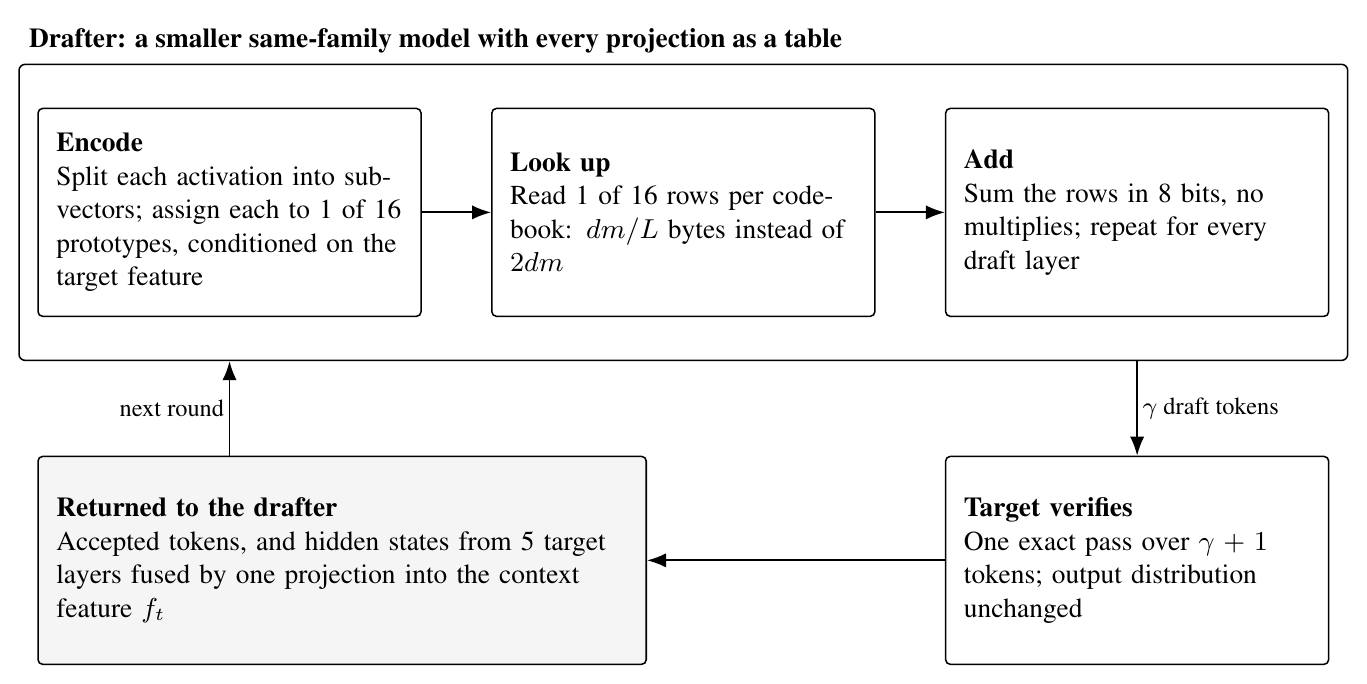
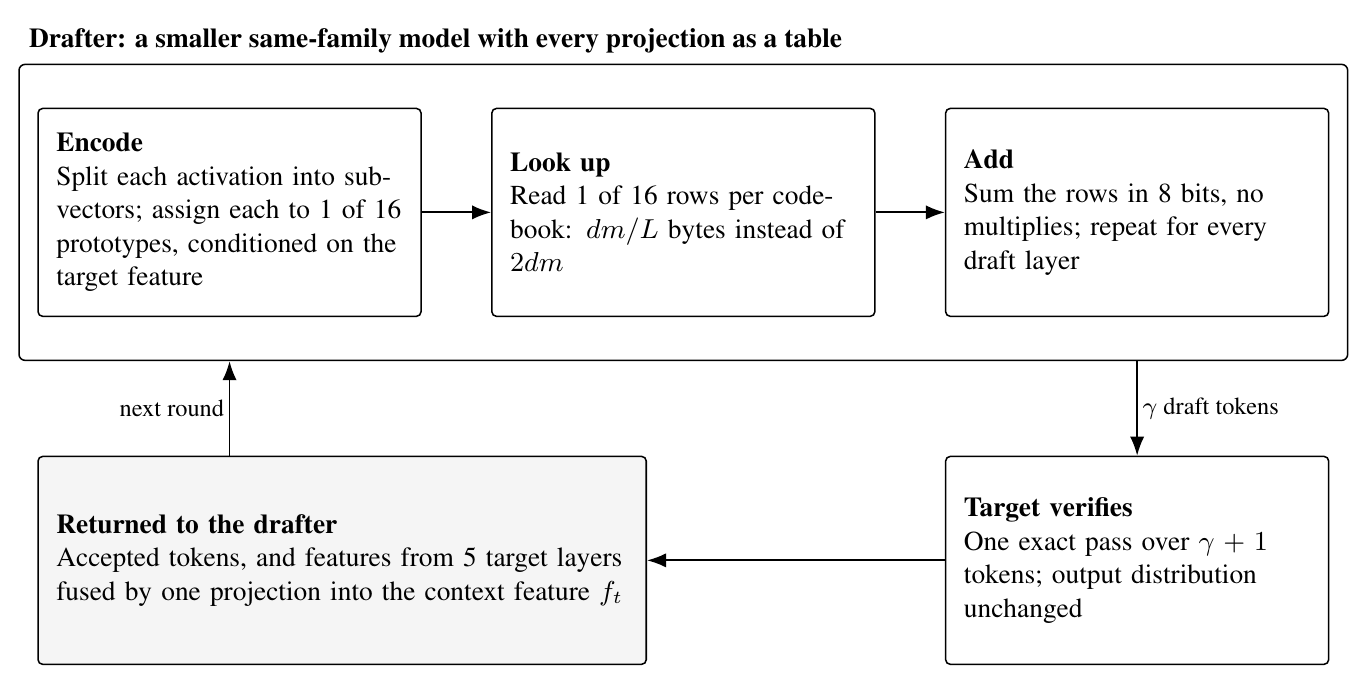
condensed proposal, batch size feasibility, say features not hidden states

Changed region(s): [[0.0307, 0.7368, 0.4609, 0.9211]]

diff --git a/figures/draft_verify_round.tex b/figures/draft_verify_round.tex
@@ -22,7 +22,7 @@
   \end{scope}
   % verify and return
   \node[stage, below=16mm of add.south, anchor=north, text width=40mm] (ver) {\textbf{Target verifies}\\One exact pass over $\gamma+1$ tokens; output distribution unchanged};
-  \node[stage, text width=66mm, fill=black!4] (ret) at (ver -| enc.west) [anchor=west] {\textbf{Returned to the drafter}\\Accepted tokens, and hidden states from 5 target layers fused by one projection into the context feature $f_t$};
+  \node[stage, text width=66mm, fill=black!4] (ret) at (ver -| enc.west) [anchor=west] {\textbf{Returned to the drafter}\\Accepted tokens, and features from 5 target layers fused by one projection into the context feature $f_t$};
   \draw[flow] (drafter.south -| add) -- (ver.north) node[edgelabel, midway, right] {$\gamma$ draft tokens};
   \draw[flow] (ver.west) -- (ret.east);
   \draw[flow] (ret.north -| enc) -- (drafter.south -| enc) node[edgelabel, midway, left] {next round};

diff --git a/PROPOSAL.md b/PROPOSAL.md
@@ -1,12 +1,12 @@
 # Multiplication-Free Drafting for Speculative Decoding
 
-Juliana Li · October 2026 · revised 27 October after discussion with the TF
+CS 2420 Group 2 · Juliana Li, Eric Xu, Bowen Yang, Adam Zhou · October 2026
 
 ## Summary
 
-We propose a drafter for speculative decoding whose linear layers run as table lookups in place of multiplications, and whose table indices are chosen with help from the target model's hidden states. The drafter is a smaller model from the target's family, for example Llama-3.2-1B drafting for Llama-3.1-8B. Each linear layer's input activation is split into short subvectors, each subvector is assigned to one of 16 learned prototypes, and the dot product of every prototype with the matching slice of the weight matrix is precomputed into a lookup table. This is the MADDNESS construction of [Blalock and Guttag (2021)](https://arxiv.org/abs/2106.10860). A draft forward pass reads one table row per codebook and adds 8-bit entries, performs no multiply-adds in its projections, and at batch size 1 reads 1/16 of the bytes the same model reads in 16 bits at the default subvector length of 8. The target verifies drafted tokens exactly as in standard speculative decoding, so output quality is unchanged.
+We propose a drafter for speculative decoding whose linear layers run as table lookups in place of multiplications, and whose table indices are chosen with help from the target model's features. The drafter is a smaller model from the target's family, for example Llama-3.2-1B drafting for Llama-3.1-8B. Each linear layer's input activation is split into short subvectors, each subvector is assigned to one of 16 learned prototypes, and the dot product of every prototype with the matching slice of the weight matrix is precomputed into a lookup table. This is the MADDNESS construction of [Blalock and Guttag (2021)](https://arxiv.org/abs/2106.10860). A draft forward pass reads one table row per codebook and adds 8-bit entries, performs no multiply-adds in its projections, and at batch size 1 reads 1/16 of the bytes the same model reads in 16 bits at the default subvector length of 8. The target verifies drafted tokens exactly as in standard speculative decoding, so output quality is unchanged.
 
-The main claim is about accuracy. Assigning each activation to a prototype is the drafter's one data-dependent step. The naive assignment hashes the activation to a bucket with a locality-sensitive hash and uses that bucket's centroid. We claim that conditioning the assignment on features the target computed during verification gives a higher acceptance rate than naive hashing at the same table budget. The target's hidden states already encode several future tokens, which is what makes [EAGLE-3](https://arxiv.org/abs/2503.01840) and [DFlash](https://arxiv.org/abs/2602.06036) fast, and a drafter's errors only lower its acceptance rate, which is what makes MADDNESS's approximation affordable here.
+The main claim is about accuracy. Assigning each activation to a prototype is the drafter's one data-dependent step. The naive assignment hashes the activation to a bucket with a locality-sensitive hash and uses that bucket's centroid. We claim that conditioning the assignment on features the target computed during verification gives a higher acceptance rate than naive hashing at the same table budget. The target's features already encode several future tokens, which is what makes [EAGLE-3](https://arxiv.org/abs/2503.01840) and [DFlash](https://arxiv.org/abs/2602.06036) fast, and a drafter's errors only lower its acceptance rate, which is what makes MADDNESS's approximation affordable here.
 
 The first milestone is a curve of acceptance rate against number of codebooks for Llama-3.2-1B drafting for Llama-3.1-8B, once with naive hashing and once with target-feature conditioning. Draft latency is measured beside it. The accuracy claim does not depend on the latency result.
 
@@ -20,7 +20,7 @@ $$
 
 Both α and c enter, but two measurement studies find that c decides. [Ha et al. (ICML 2026)](https://www.eecg.utoronto.ca/~ganesa10/assets/pdfs/selfspecdecode-icml2026.pdf) characterize five self-speculative methods on Llama-2 7B to 70B and state their first takeaway as "Draft cost, not acceptance rate, dominates throughput": the methods with the smallest drafters (Kangaroo, DEL) consistently beat the methods with better drafts (SWIFT, Draft & Verify). [Yan et al. (NAACL 2025)](https://arxiv.org/abs/2402.01528) reach the same conclusion for separate draft models: performance "depends heavily on the latency of the draft model", and the drafter's language-modeling quality "does not correlate strongly" with its speculative performance.
 
-Existing drafters lower c in two ways. Self-drafters run fewer of the target's layers, by skipping layers ([Draft & Verify](https://aclanthology.org/2024.acl-long.607); SWIFT) or exiting early ([LayerSkip](https://aclanthology.org/2024.acl-long.681); [Kangaroo](https://arxiv.org/abs/2404.18911); DEL), and quantized self-drafters ([QSpec](https://arxiv.org/abs/2410.11305); [QuantSpec](https://arxiv.org/abs/2502.10424)) run the layers at 4 bits. Trained drafters ([EAGLE](https://arxiv.org/abs/2401.15077); EAGLE-3; DFlash) run a new small network fed with the target's hidden states. DFlash reads hidden states from five target layers and injects them into the keys and values of every draft layer, and reaches 6.1× on Qwen3-8B. The lesson of the trained drafters, stated in DFlash as "the target knows best", is that a drafter's quality comes mostly from the target's features and only a small share from the drafter's own arithmetic. Their arithmetic is still dense matrix products, and they need a new transformer trained on a large corpus.
+Existing drafters lower c in two ways. Self-drafters run fewer of the target's layers, by skipping layers ([Draft & Verify](https://aclanthology.org/2024.acl-long.607); SWIFT) or exiting early ([LayerSkip](https://aclanthology.org/2024.acl-long.681); [Kangaroo](https://arxiv.org/abs/2404.18911); DEL), and quantized self-drafters ([QSpec](https://arxiv.org/abs/2410.11305); [QuantSpec](https://arxiv.org/abs/2502.10424)) run the layers at 4 bits. Trained drafters ([EAGLE](https://arxiv.org/abs/2401.15077); EAGLE-3; DFlash) run a new small network fed with the target's features. DFlash reads features from five target layers and injects them into the keys and values of every draft layer, and reaches 6.1× on Qwen3-8B. The lesson of the trained drafters, stated in DFlash as "the target knows best", is that a drafter's quality comes mostly from the target's features and only a small share from the drafter's own arithmetic. Their arithmetic is still dense matrix products, and they need a new transformer trained on a large corpus.
 
 MADDNESS removes the arithmetic. For a weight matrix known in advance it replaces the product with table lookups and 8-bit additions and performs zero multiply-adds; Blalock and Guttag report up to 100× over exact products on CPU. It was never adopted for exact inference because its error compounds through depth: [McCarter and Dronen (2022)](https://arxiv.org/abs/2207.05808) applied it to whole networks with fine-tuning and found accuracy "substantially diminished compared to exact matrix multiplication". A drafter is the one place where that failure is affordable. The target verifies every drafted token, so approximation error lowers α and leaves output quality unchanged, and the cost model above says α is the cheaper currency.
 
@@ -41,7 +41,7 @@ Four lines of work meet here, and none of them has built a drafter from lookup t
 | [QuantSpec](https://arxiv.org/abs/2502.10424) (ICML 2025) | Target at 4-bit weights with a 4-bit KV cache | Word size, KV bytes | None | Long-context baseline; acceptance above 90% |
 | [MADDNESS](https://arxiv.org/abs/2106.10860), [LUT-NN](https://arxiv.org/abs/2302.03213), [Stella Nera](https://arxiv.org/abs/2311.10207) | Whole network through tables (not a drafter) | Multiplies become lookups | Centroid fine-tuning | The mechanism. Never applied to a decoder LLM or to drafting |
 
-**Speculative decoding.** Leviathan et al. (2023) and Chen et al. (2023) introduced the draft-then-verify loop with a rejection rule that preserves the target's output distribution. [Medusa](https://arxiv.org/abs/2401.10774) and EAGLE (ICML 2024) replaced the separate drafter with heads trained on the target's own hidden states; EAGLE's drafter takes the target's second-to-top-layer feature at the previous position plus the next token's embedding. EAGLE-3 fuses a low, a middle and a high target layer and reaches speedups up to 6.5×. DFlash fuses five target layers, spaced uniformly between the second layer and the third-to-last, through one projection W_c of shape D × 5D followed by RMSNorm, and injects the result into the key and value projections of every draft layer. These papers already ran the ablations on which target layers carry information about future tokens, and we reuse their choices rather than re-deriving them.
+**Speculative decoding.** Leviathan et al. (2023) and Chen et al. (2023) introduced the draft-then-verify loop with a rejection rule that preserves the target's output distribution. [Medusa](https://arxiv.org/abs/2401.10774) and EAGLE (ICML 2024) replaced the separate drafter with heads trained on the target's own features; EAGLE's drafter takes the target's second-to-top-layer feature at the previous position plus the next token's embedding. EAGLE-3 fuses a low, a middle and a high target layer and reaches speedups up to 6.5×. DFlash fuses five target layers, spaced uniformly between the second layer and the third-to-last, through one projection W_c of shape D × 5D followed by RMSNorm, and injects the result into the key and value projections of every draft layer. These papers already ran the ablations on which target layers carry information about future tokens, and we reuse their choices rather than re-deriving them.
 
 **Self-drafting.** Draft & Verify, LayerSkip, Kangaroo, SWIFT and DEL draft with a subset of the target's layers. Ha et al. (ICML 2026) measured all five on Llama-2 7B to 70B and found that the methods with the cheapest drafters win despite lower acceptance, and that early-exit methods also win on verification because the target reuses the draft layers' computation. Yan et al. (NAACL 2025) found the same for separate drafters.
 
@@ -71,7 +71,7 @@ The drafter is a smaller model from the target's family with every linear projec
 
 **Step 1: assigning activations to prototypes.** Three naive encoders are implemented as baselines. The Hamming encoder draws b = 4 random hyperplanes per subspace, hashes each subvector to a 4-bit code, and uses the mean of the calibration rows in that bucket as the centroid; this is the locality-sensitive hash of the lecture framing. The MADDNESS encoder is the four-level decision tree, four scalar comparisons per subvector. The nearest-prototype encoder computes all 16 distances, 16·L multiplies per subvector, and is the accuracy ceiling for a fixed codebook. All three cost under 1% of the exact layer's arithmetic. The difference between them is accuracy, and it is measured as acceptance rate.
 
-**Feature-informed assignment.** After verification the target's hidden states at every accepted position are free. Following DFlash, hidden states from five target layers spaced uniformly through the depth are concatenated and projected by one matrix W_c of shape D_draft × 5 D_target with RMSNorm, giving a context feature f_t at the last accepted position. For Llama-3.1-8B into Llama-3.2-1B this is a 2048 × 20480 matrix, about 42M multiply-adds per accepted position, computed once per round for all accepted positions in parallel and reused across the γ draft steps. Two mechanisms use f_t, and both keep the bytes read per token unchanged.
+**Feature-informed assignment.** After verification the target's features at every accepted position are free. Following DFlash, features from five target layers spaced uniformly through the depth are concatenated and projected by one matrix W_c of shape D_draft × 5 D_target with RMSNorm, giving a context feature f_t at the last accepted position. For Llama-3.1-8B into Llama-3.2-1B this is a 2048 × 20480 matrix, about 42M multiply-adds per accepted position, computed once per round for all accepted positions in parallel and reused across the γ draft steps. Two mechanisms use f_t, and both keep the bytes read per token unchanged.
 
 - *Context-conditioned assignment.* A small per-layer adapter a_l maps f_t to a 32-dimensional context vector. The scorer for subspace c scores the 16 prototypes from the concatenation of the activation subvector and that context vector and takes the argmax. The scorer costs 16·(L + 32) multiply-adds per subvector, about 1% of the exact layer, and can later be distilled into a tree or a hash to restore the multiply-free property. Training is cross-entropy against the prototype whose table entry best reconstructs the exact layer output on the calibration set, with a second variant trained end to end on the drafter's next-token log-likelihood under the target.
 - *Context-selected codebooks.* Each subspace holds M = 4 codebooks of 16 prototypes, fit by clustering the calibration rows after grouping them by a 2-bit hash of f_t. The context picks the codebook and the subvector picks the prototype within it. Storage grows by M; bytes read per token do not change. This is the "better centroids" lever in our TF's terms, and the first mechanism is the "better assignment" lever.
@@ -86,7 +86,7 @@ For draft positions beyond the first, f_t is either held at the last verified po
 
 Three points, each stated against the closest prior work.
 
-- **Feature-informed prototype assignment.** EAGLE, EAGLE-3 and DFlash feed the target's hidden states into a trained transformer drafter. We feed them into the assignment step of a table drafter, so the signal that those methods spend a trained network on is used to pick one of 16 precomputed rows. As far as we can find, this is the first use of a verifier's exact features to steer a product-quantization encoder, and the first comparison of feature-informed assignment against naive locality-sensitive hashing on acceptance rate.
+- **Feature-informed prototype assignment.** EAGLE, EAGLE-3 and DFlash feed the target's features into a trained transformer drafter. We feed them into the assignment step of a table drafter, so the signal that those methods spend a trained network on is used to pick one of 16 precomputed rows. As far as we can find, this is the first use of a verifier's exact features to steer a product-quantization encoder, and the first comparison of feature-informed assignment against naive locality-sensitive hashing on acceptance rate.
 - **The first activation-indexed lookup-table drafter.** Every existing drafter cuts cost by depth (Draft & Verify, LayerSkip, Kangaroo, SWIFT, DEL), by word size (QSpec, QuantSpec), or by training a small dense network (EAGLE-3, DFlash). This drafter changes the arithmetic itself: its projections perform no multiply-adds and its error lives in the activations rather than the weights. The LUT kernels now used for LLMs (LUT-GEMM, T-MAC, FLUTE) are exact kernels for quantized weights and are a different object.
 - **A setting where MADDNESS's known failure is affordable.** Whole-network lookup inference was tried and found to lose too much accuracy (McCarter and Dronen, 2022; Stella Nera recovers it only with fine-tuning on CIFAR-scale models). Speculative verification turns that accuracy loss into a lower acceptance rate with no change to outputs, and the measurements of Ha et al. and Yan et al. say acceptance rate is the cheaper currency. We have found no one who has made this argument or tested it.
 
@@ -111,6 +111,17 @@ For the primary pair the numbers are as follows. Llama-3.2-1B has about 0.97B pa
 | Llama-3.2-1B, tables at L = 8, 8-bit LM head | 0.4 GB | 0.02 | 0.1 to 0.2 |
 
 The last column is the honest one. A 16-layer forward pass at batch 1 is a few hundred kernel launches, and with CUDA graphs we estimate about 1 ms on an H100, against about 10 ms for the 8B target, so c has a floor near 0.1 that tables cannot lower. On a GPU the tables buy a modest latency gain over a 4-bit drafter and a large gain in bytes and energy; on bandwidth-bound hardware such as phones, where the lecture's MobileLLM and Apple Neural Engine material places the constraint, the byte reduction is the latency gain. This is why the main claim is the acceptance-rate gain at fixed budget, which holds on any hardware, and the speed result is measured and reported rather than promised.
+
+**Batch size.** A dense weight matrix is read once per batch, but a table is read one row per codebook per token, and different tokens select different rows, so by a batch of 16 nearly the whole table has been read. Total bytes per projection per batch, as a fraction of the 16-bit weight matrix:
+
+| Batch size | 16-bit | 4-bit | Tables, L = 8 | Tables, L = 16 | Tables, L = 32 |
+| --- | --- | --- | --- | --- | --- |
+| 1 | 1 | 0.25 | 0.06 | 0.03 | 0.02 |
+| 4 | 1 | 0.25 | 0.25 | 0.13 | 0.06 |
+| 8 | 1 | 0.25 | 0.5 | 0.25 | 0.13 |
+| 16 or more | 1 | 0.25 | 1 | 0.5 | 0.25 |
+
+The byte advantage over a 4-bit drafter therefore holds up to batch 4 at L = 8 and batch 16 at L = 32, which covers interactive serving and on-device decoding. At larger batches the table drafter is bound by its 8-bit additions, which are L times fewer operations than the dense product but do not run on tensor cores, so a quantized tensor-core drafter is expected to be faster there; this is measured, not claimed. Speculative decoding as a whole also weakens at large batch, because a compute-bound target pays close to γ forward passes to verify γ tokens, which raises c for every drafter. The acceptance-rate claim does not depend on batch size.
 
 The speedup formula from the Motivation gives the targets. With γ = 5 drafted tokens per round:
 
@@ -141,7 +152,7 @@ The first group extends the method; the second uses the artifact to answer quest
 - **Table fine-tuning by distillation.** LUT-NN and Stella Nera make the lookups differentiable. Here the tables, prototypes and scorers are the only trained parameters, so fine-tuning them to match the target's next-token distribution on a few million tokens is cheap and attacks α directly.
 - **Learned subspaces and rotations.** MADDNESS groups adjacent input dimensions. Choosing the grouping, or applying an orthogonal rotation of the input as [QuaRot](https://arxiv.org/abs/2404.00456) does to remove outliers, folds into the weight before the table is built and costs nothing at run time.
 - **Tree drafting.** With c near 0.1 the drafter can afford to propose a tree of candidates as EAGLE-2 does instead of a chain. Tree width raises the number of table rows read per round, so the byte advantage fades around 16 candidates.
-- **Batched serving.** At batch sizes of 8 to 64 the drafter reads most of its tables and becomes bound by 8-bit additions rather than bytes. Whether it still beats a 4-bit drafter there decides whether the method is a latency tool or also a throughput tool.
+- **Batched serving.** Past the batch sizes in the Feasibility table the drafter is bound by 8-bit additions rather than bytes. Whether it still beats a 4-bit drafter there decides whether the method is a latency tool or also a throughput tool.
 - **Hardware.** The tables and codes are what Stella Nera and T-MAC execute. A CPU-side or neural-engine drafter on a phone, paired with a GPU or server target, is where the multiply-free property matters most.
 
 **Questions the artifact can answer**
@@ -152,14 +163,14 @@ The first group extends the method; the second uses the artifact to answer quest
 
 ## Starter experiments
 
-The first three experiments take about three weeks on one 80 GB GPU and decide whether the project continues; the rest build the paper. Calibration uses 1M to 2M tokens of FineWeb or WikiText; evaluation uses CNN/DailyMail, GSM8K and HumanEval prompts, the three datasets of Ha et al. Every result table reports c, α and tokens per second together, as Ha et al. recommend.
+The first three experiments run on one 80 GB GPU and decide whether the project continues; the rest build the paper. Calibration uses 1M to 2M tokens of FineWeb or WikiText; evaluation uses CNN/DailyMail, GSM8K and HumanEval prompts, the three datasets of Ha et al. Every result table reports c, α and tokens per second together, as Ha et al. recommend.
 
-1. **Single-layer reconstruction (week 1).** For one middle-layer MLP down-projection and one attention output projection of Llama-3.2-1B, fit MADDNESS at L of 8, 16 and 32, with and without SmoothQuant-style per-channel scaling, and refit the tables by ridge regression. Measure relative output error and the KL divergence of the drafter's next-token distribution when only that layer is replaced. Compare with 8-bit and 4-bit weight quantization of the same layer. Pure PyTorch gather-and-sum, no kernels. Gate: at L = 8 the KL cost is within 2× that of 4-bit weights; otherwise outlier handling comes first.
-2. **Acceptance rate under naive assignment (weeks 2 to 3).** Replace every projection at uniform L and measure α with γ = 5 under greedy and sampled verification against Llama-3.1-8B, for the Hamming, tree and nearest-prototype encoders. Also measure the 16-bit and 4-bit Llama-3.2-1B drafters, which set the ceiling. Gate: the tree encoder at L = 8 lands within 0.1 of the 16-bit ceiling. Below that, table fine-tuning (experiment 7) moves ahead of everything else.
-3. **Feature-informed assignment (weeks 3 to 5).** Train the fusion projection, per-layer adapters and per-subspace scorers on the calibration set against teacher codes, then the context-selected codebook variant. Measure code accuracy and α at L of 8, 16 and 32 against the naive encoders at the same L, with f_t held at the last verified position and with it recomputed from the drafter's own feature. This is the main result: the α gain at equal L, or the L at which the conditioned encoder matches the naive encoder's α. Gate: a gain of 0.05 in α at L = 8, or matching α at L = 16.
-4. **Fused kernel microbenchmark (weeks 2 to 4, in parallel).** Write one Triton kernel per projection that encodes, gathers the selected rows and adds them in 8 bits, at batch size 1 on shapes 2048 × 2048 and 2048 × 8192. Time it against a BF16 matrix-vector product and a Marlin 4-bit kernel; report bytes read and achieved bandwidth. Gate: per-projection time at or below the 4-bit kernel at L = 8.
-5. **End-to-end speedup (week 5).** Run drafter and target in one loop with CUDA graphs. Report c, α and tokens per second against vanilla decoding, the 16-bit and 4-bit Llama-3.2-1B drafters, and Draft & Verify and LayerSkip from their released code. EAGLE-3 and DFlash numbers on Llama-3.1-8B are quoted from their papers as the trained-drafter bar.
-6. **Which target features (week 6).** Repeat experiment 3 with EAGLE's second-to-top layer, EAGLE-3's three layers, and DFlash's five, at matched adapter size.
+1. **Single-layer reconstruction.** For one middle-layer MLP down-projection and one attention output projection of Llama-3.2-1B, fit MADDNESS at L of 8, 16 and 32, with and without SmoothQuant-style per-channel scaling, and refit the tables by ridge regression. Measure relative output error and the KL divergence of the drafter's next-token distribution when only that layer is replaced. Compare with 8-bit and 4-bit weight quantization of the same layer. Pure PyTorch gather-and-sum, no kernels. Gate: at L = 8 the KL cost is within 2× that of 4-bit weights; otherwise outlier handling comes first.
+2. **Acceptance rate under naive assignment.** Replace every projection at uniform L and measure α with γ = 5 under greedy and sampled verification against Llama-3.1-8B, for the Hamming, tree and nearest-prototype encoders. Also measure the 16-bit and 4-bit Llama-3.2-1B drafters, which set the ceiling. Gate: the tree encoder at L = 8 lands within 0.1 of the 16-bit ceiling. Below that, table fine-tuning (experiment 7) moves ahead of everything else.
+3. **Feature-informed assignment.** Train the fusion projection, per-layer adapters and per-subspace scorers on the calibration set against teacher codes, then the context-selected codebook variant. Measure code accuracy and α at L of 8, 16 and 32 against the naive encoders at the same L, with f_t held at the last verified position and with it recomputed from the drafter's own feature. This is the main result: the α gain at equal L, or the L at which the conditioned encoder matches the naive encoder's α. Gate: a gain of 0.05 in α at L = 8, or matching α at L = 16.
+4. **Fused kernel microbenchmark (in parallel with 2 and 3).** Write one Triton kernel per projection that encodes, gathers the selected rows and adds them in 8 bits, at batch size 1 on shapes 2048 × 2048 and 2048 × 8192. Time it against a BF16 matrix-vector product and a Marlin 4-bit kernel; report bytes read and achieved bandwidth. Gate: per-projection time at or below the 4-bit kernel at L = 8.
+5. **End-to-end speedup.** Run drafter and target in one loop with CUDA graphs. Report c, α and tokens per second against vanilla decoding, the 16-bit and 4-bit Llama-3.2-1B drafters, and Draft & Verify and LayerSkip from their released code. EAGLE-3 and DFlash numbers on Llama-3.1-8B are quoted from their papers as the trained-drafter bar.
+6. **Which target features.** Repeat experiment 3 with EAGLE's second-to-top layer, EAGLE-3's three layers, and DFlash's five, at matched adapter size.
 7. **Table fine-tuning by distillation (if needed).** Fine-tune tables, prototypes and scorers through a straight-through estimator on 5M tokens against the target's next-token distribution and report the gain in α.
 
 ## Open questions

diff --git a/PROPOSAL_SHORT.md b/PROPOSAL_SHORT.md
@@ -1,0 +1,93 @@
+# Multiplication-Free Drafting for Speculative Decoding
+
+CS 2420 Group 2 · Juliana Li, Eric Xu, Bowen Yang, Adam Zhou · October 2026 · condensed version of [PROPOSAL.md](PROPOSAL.md)
+
+## Summary
+
+Speculative decoding speeds up a large language model by having a cheap drafter guess several tokens that the large model then checks in one pass. We propose a drafter whose linear layers do no multiplication at all: each layer is replaced by a precomputed lookup table, following the MADDNESS method of [Blalock and Guttag (2021)](https://arxiv.org/abs/2106.10860). The drafter is a smaller model from the same family as the target, for example Llama-3.2-1B drafting for Llama-3.1-8B, and at batch size 1 it reads 1/16 of the bytes of the same model in 16 bits. The one data-dependent step in a lookup drafter is choosing which table row to read. Our main claim is that choosing that row with help from the target model's own features, which are free after every verification, raises the fraction of accepted draft tokens compared with a plain hash at the same table size. The target still verifies every token, so output quality is unchanged.
+
+## Motivation
+
+1. **Draft cost matters more than draft quality.** With acceptance rate α, γ drafted tokens per round and drafter cost c per token (as a fraction of one target forward pass), the speedup is (1 − α^(γ+1)) / ((1 − α)(γc + 1)). Two measurement studies find that c decides: [Ha et al. (ICML 2026)](https://www.eecg.utoronto.ca/~ganesa10/assets/pdfs/selfspecdecode-icml2026.pdf) state "Draft cost, not acceptance rate, dominates throughput", and [Yan et al. (NAACL 2025)](https://arxiv.org/abs/2402.01528) find that a drafter's language-modeling quality "does not correlate strongly" with its speedup.
+2. **Current drafters still multiply.** Self-drafters skip layers ([Draft & Verify](https://aclanthology.org/2024.acl-long.607), [LayerSkip](https://aclanthology.org/2024.acl-long.681), [Kangaroo](https://arxiv.org/abs/2404.18911)), quantized drafters run at 4 bits ([QSpec](https://arxiv.org/abs/2410.11305), [QuantSpec](https://arxiv.org/abs/2502.10424)), and trained drafters ([EAGLE-3](https://arxiv.org/abs/2503.01840), [DFlash](https://arxiv.org/abs/2602.06036)) run a new small network. All of them still run dense matrix products.
+3. **Lookup tables remove the multiplication, and the drafter is the one place where their error is affordable.** MADDNESS replaces a matrix product with table lookups and 8-bit additions, up to 100× faster than exact products on CPU, but its error compounds through depth, and [McCarter and Dronen (2022)](https://arxiv.org/abs/2207.05808) found whole-network accuracy "substantially diminished". In a drafter, approximation error only lowers α, and by point 1 that is the cheap currency.
+4. **The target's features are the best guide to the next token.** EAGLE-3 and DFlash reach 6× by feeding the target's features into the drafter; DFlash summarizes this as "the target knows best". We use the same signal for the one decision a lookup drafter makes per layer: which table row to read.
+
+## Related work
+
+- **Speculative decoding.** [Leviathan et al. (2023)](https://arxiv.org/abs/2211.17192) and [Chen et al. (2023)](https://arxiv.org/abs/2302.01318) introduced the draft-then-verify loop with a rejection rule that preserves the target's output distribution.
+- **Feature-fed drafters.** EAGLE feeds the target's second-to-top feature into a trained draft layer; EAGLE-3 fuses a low, middle and high target layer; DFlash fuses five uniformly spaced target layers through one projection and injects the result into every draft layer. These papers already found which target layers carry information about future tokens, and we reuse their choices.
+- **Lookup-based matrix products.** MADDNESS splits each input row into short subvectors, assigns each to one of 16 learned prototypes with a four-level decision tree, and sums precomputed 8-bit table entries. [LUT-NN](https://arxiv.org/abs/2302.03213) and [Stella Nera](https://arxiv.org/abs/2311.10207) made the prototypes trainable and built hardware for it. The LUT kernels now used for LLMs ([LUT-GEMM](https://arxiv.org/abs/2206.09557), [T-MAC](https://arxiv.org/abs/2407.00088), [FLUTE](https://aclanthology.org/2024.findings-emnlp.724)) are a different object: they index tables by weight bit patterns and are exact for a quantized weight. We found no application of activation-indexed tables to a decoder language model of 1B parameters or more, and none to drafting.
+
+## Proposed method
+
+![One draft-verify round. The lookup drafter encodes, looks up and adds through every layer; the target verifies in one pass; accepted positions return tokens and a fused target feature that guides the next round's row choice.](figures/draft_verify_round.png)
+
+1. **Model pair.** Llama-3.2-1B drafts for Llama-3.1-8B. They share the tokenizer, which speculative decoding requires, and the architecture family, which keeps the feature adapter small. Secondary pairs: Llama-3.2-3B for 8B, Qwen3-0.6B for Qwen3-8B.
+2. **Build the tables (offline).** For each linear layer with weight W of shape d × m, split the input dimension into C = d/L subvectors of length L (default L = 8). From about 100K activation rows of the drafter on generic text, fit 16 prototypes per subspace. Table entry T_c[k, j] stores the dot product of prototype k in subspace c with the matching slice of column j of W, scaled to 8 bits. After the prototypes are fixed, refit the entries by ridge regression against the layer's exact outputs.
+3. **Draft forward pass.** Per token and layer, assign each of the C subvectors to a prototype, then for each of the m outputs add C 8-bit table entries. All attention and MLP projections go through tables. Attention scores, softmax, normalization, activation functions and residual additions stay exact in 16 bits. The drafter proposes γ tokens, the target checks them in one pass, and the rejection rule of Leviathan et al. keeps the output distribution exactly the target's.
+4. **Naive row choice (the baselines).** Three encoders that look only at the drafter's own activation: a random-hyperplane hash to 4 bits (the locality-sensitive hashing of the lecture framing), the MADDNESS decision tree (four scalar comparisons), and exact nearest-prototype search (16·L multiplies, the accuracy ceiling for a fixed codebook). All cost under 1% of the exact layer. They differ in accuracy, measured as acceptance rate.
+5. **Target-guided row choice (the contribution).** After verification, features from five target layers, spaced uniformly through the depth as in DFlash, are concatenated and projected by one matrix W_c (2048 × 20480 for this pair, about 42M multiply-adds) into a context feature f_t at the last accepted position. This runs once per round, not per draft token. Two ways to use f_t, neither of which changes the bytes read per token:
+    - *Guided assignment.* A small per-layer adapter maps f_t to a 32-dimensional context vector. A scorer picks the prototype for each subvector from the subvector plus that context vector. Cost is about 1% of the exact layer, and the scorer can later be distilled into a tree or hash.
+    - *Guided codebooks.* Each subspace holds 4 codebooks of 16 prototypes; a 2-bit hash of f_t picks the codebook and the subvector picks the prototype. Storage grows 4×, bytes read per token do not.
+6. **Per-layer table budget.** The subvector length L can differ by layer and projection under a total byte budget. This is a tuning knob, not a claimed contribution.
+7. **What is not changed.** No target weight is modified, no new transformer is trained, and the output distribution is the target's. The trained parts are the prototypes, tables, fusion projection and small adapters, a few tens of megabytes trained on a calibration set.
+
+## Novelty
+
+- **Using the target model's own features to pick which table row the drafter reads.** The target computes features while checking the previous draft, and those states already encode several upcoming tokens. Existing methods spend a trained network on that signal; we use it to make a cheap choice among 16 precomputed rows. As far as we can find, nobody has used a verifier's features to steer a product-quantization encoder, or compared that against plain hashing on acceptance rate.
+- **Cutting draft cost by replacing the drafter's multiplications with table lookups.** Every existing drafter saves cost by running fewer layers, fewer bits, or a smaller dense network. Ours changes the arithmetic itself: its projections do no multiply-adds and read 1/16 of the bytes. This is the first lookup-table drafter.
+- **Making an approximation that failed for exact inference affordable.** Whole-network lookup inference loses too much accuracy. Speculative verification turns that accuracy loss into a lower acceptance rate with no change to outputs, and the measurements of Ha et al. and Yan et al. say that is the cheaper price to pay. No one has made or tested this argument.
+
+A consequence rather than a claim: tables and codes are what lookup accelerators (Stella Nera) and CPU lookup kernels (T-MAC) already execute, and Gemma 4 ships a 76M to 500M parameter drafter for on-device use, so a working lookup drafter has a path onto phones that bit-quantized drafters do not.
+
+## Feasibility
+
+Decoding at batch size 1 is bound by memory bandwidth, so cost tracks bytes read, down to a floor set by kernel launch latency. Per token, a 16-bit projection reads 2dm bytes; its table reads one row per codebook, dm/L bytes, which is 1/16 at L = 8. For the primary pair:
+
+| Drafter | Bytes read per drafted token | c by bytes | c expected on an H100 |
+| --- | --- | --- | --- |
+| Llama-3.2-1B, 16-bit | 2.5 GB | 0.16 | 0.15 to 0.3 |
+| Llama-3.2-1B, 4-bit weights | 0.6 GB | 0.04 | 0.1 to 0.2 |
+| Llama-3.2-1B, tables at L = 8 | 0.4 GB | 0.02 | 0.1 to 0.2 |
+
+The last column is the honest one: a 16-layer pass at batch 1 is a few hundred kernel launches, about 1 ms on an H100 against about 10 ms for the 8B target, so c has a floor near 0.1 that tables cannot lower. On a GPU the tables buy a modest latency gain over a 4-bit drafter and a large gain in bytes and energy; on bandwidth-bound hardware such as phones the byte reduction is the latency gain. This is why the main claim is the acceptance-rate gain at a fixed table budget, which holds on any hardware. With γ = 5, c = 0.1 gives 1.6× at α = 0.6 and 2.0× at α = 0.7; we expect the 16-bit 1B drafter to reach α of 0.6 to 0.7, which is the ceiling for the lookup drafter.
+
+**Batch size.** A dense weight matrix is read once per batch, but a table is read one row per codebook per token, so by a batch of 16 nearly the whole table has been read. Total bytes per projection per batch, as a fraction of the 16-bit weight matrix:
+
+| Batch size | 16-bit | 4-bit | Tables, L = 8 | Tables, L = 16 | Tables, L = 32 |
+| --- | --- | --- | --- | --- | --- |
+| 1 | 1 | 0.25 | 0.06 | 0.03 | 0.02 |
+| 4 | 1 | 0.25 | 0.25 | 0.13 | 0.06 |
+| 16 or more | 1 | 0.25 | 1 | 0.5 | 0.25 |
+
+The byte advantage over a 4-bit drafter holds up to batch 4 at L = 8 and batch 16 at L = 32, which covers interactive serving and on-device decoding. At larger batches the table drafter is bound by its 8-bit additions, which do not run on tensor cores, so a quantized tensor-core drafter is expected to be faster there; this is measured, not claimed. The acceptance-rate claim does not depend on batch size.
+
+Risks: the encoder must be fused into each projection's gather-and-add kernel or it becomes hundreds of dependent launches; LLM activation outliers can waste the 16 prototypes, so per-channel scaling as in [SmoothQuant](https://arxiv.org/abs/2211.10438) is folded into the weights before the tables are built; and the fusion projection W_c must stay out of the per-draft-token path.
+
+## Starter experiments
+
+The first three run on one 80 GB GPU and decide whether the project continues. Every result reports c, α and tokens per second together, as Ha et al. recommend.
+
+1. **Single-layer reconstruction.** Replace one MLP and one attention projection of Llama-3.2-1B with tables at L of 8, 16 and 32, with and without outlier scaling. Measure output error and the KL divergence of the drafter's next-token distribution against 8-bit and 4-bit weight quantization of the same layer. Gate: at L = 8 the KL cost is within 2× that of 4-bit weights.
+2. **Acceptance under naive row choice.** Replace every projection and measure α with γ = 5 against Llama-3.1-8B for the hash, tree and nearest-prototype encoders, plus the 16-bit and 4-bit 1B drafters as the ceiling. Gate: the tree encoder at L = 8 lands within 0.1 of the ceiling.
+3. **Target-guided row choice.** Train the fusion projection, adapters and scorers, then the guided-codebook variant. Measure α at L of 8, 16 and 32 against the naive encoders at the same L. This is the main result. Gate: a gain of 0.05 in α at L = 8, or matching α at L = 16.
+4. **Fused kernel (in parallel with 2 and 3).** One Triton kernel per projection that encodes, gathers and adds in 8 bits; time it against a BF16 matrix-vector product and a 4-bit kernel. Gate: at or below the 4-bit kernel at L = 8.
+5. **End-to-end speedup.** Drafter and target in one loop with CUDA graphs, against vanilla decoding, the 16-bit and 4-bit 1B drafters, Draft & Verify and LayerSkip.
+6. **Which target features.** Repeat experiment 3 with EAGLE's one layer, EAGLE-3's three and DFlash's five.
+7. **Table fine-tuning (if needed).** Fine-tune tables, prototypes and scorers through a straight-through estimator against the target's next-token distribution.
+
+## Open questions
+
+- **Adapter design.** Which target layers and positions feed it, whether the context vector enters the scorer or picks the codebook, and whether to train against the exact encoder's codes or against the target's next-token distribution.
+- **Staleness.** f_t is computed at the last verified position; for later draft positions it is either held fixed or recomputed from the drafter's own noisy top-layer feature. Both are tested.
+- **Why same family.** Whether the drafter needs the target's family only for the tokenizer and dimensions, or because aligned representations keep the adapter small.
+- **Fair hash baseline.** A single 4-bit random hash may assign poorly in an 8-dimensional subspace; if so the baseline gets enough hash tables to match the tree encoder's accuracy.
+- **Fusing the encoder on a GPU.** A decision tree inside a kernel causes warp divergence; the branch-free scorer may be the faster encoder on a GPU despite its multiplies.
+- **Verification setting.** Greedy and sampled verification, and 16-bit versus 4-bit targets, are all measured.
+
+Logistics for the TF: available GPUs and hours; whether a PyTorch simulation plus a kernel microbenchmark is an acceptable deliverable if the end-to-end loop slips; and whether he knows a usable GPU implementation of MADDNESS or prior work on activation-side product quantization for transformers.
+
+## References
+
+See the reference list in [PROPOSAL.md](PROPOSAL.md); every entry there was checked against its arXiv or venue page on 2026-10-26 or 2026-10-27. Works cited here: Blalock and Guttag 2021 (MADDNESS); Chen et al. 2023; Chen, Liang and Liu 2026 (DFlash); Elhoushi et al. 2024 (LayerSkip); Guo et al. 2024 (FLUTE); Ha et al. 2026; Kung 2026 (CS 2420 lecture notes); Leviathan et al. 2023; Li et al. 2024 (EAGLE); Li et al. 2025 (EAGLE-3); Liu et al. 2024 (Kangaroo); McCarter and Dronen 2022; Park et al. 2024 (LUT-GEMM); Schönleber et al. 2023 (Stella Nera); Tang et al. 2023 (LUT-NN); Tiwari et al. 2025 (QuantSpec); Wei et al. 2024 (T-MAC); Xiao et al. 2023 (SmoothQuant); Yan et al. 2025; Zhang et al. 2024 (Draft & Verify); Zhao et al. 2025 (QSpec).
